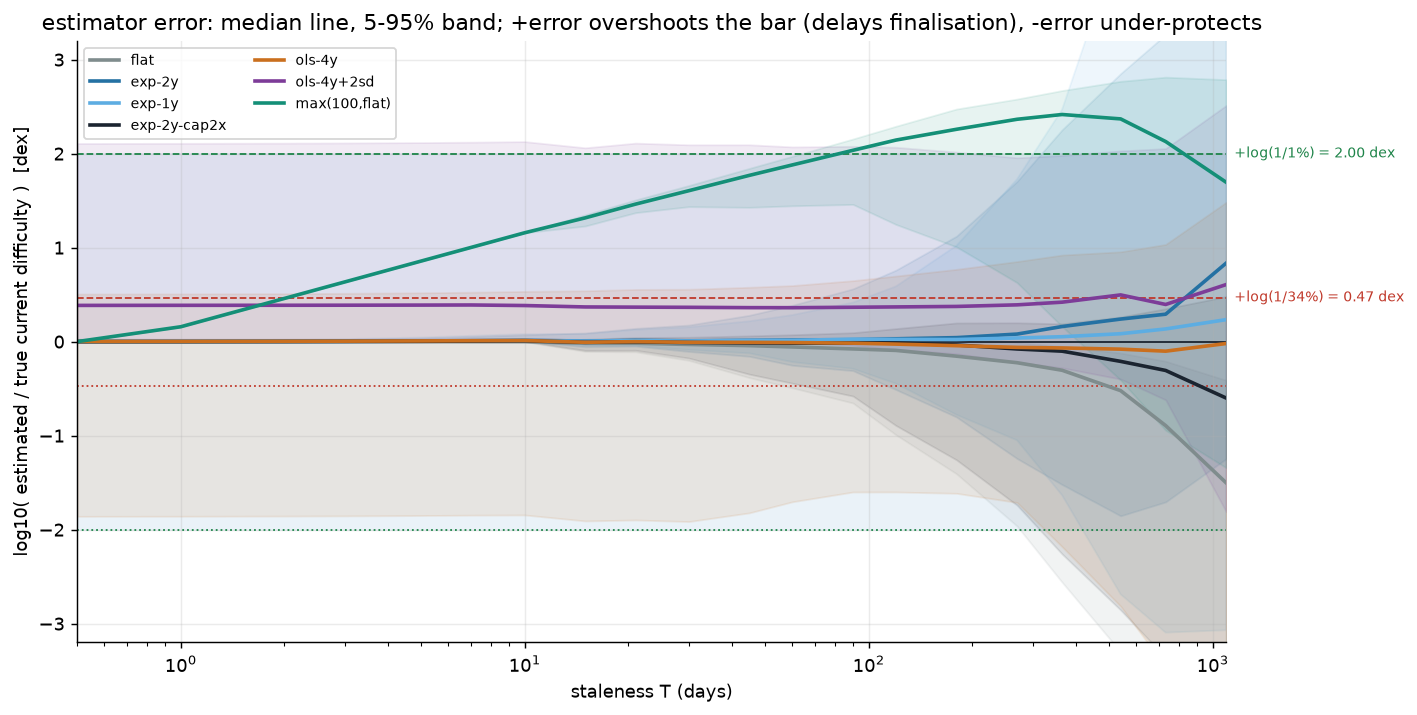
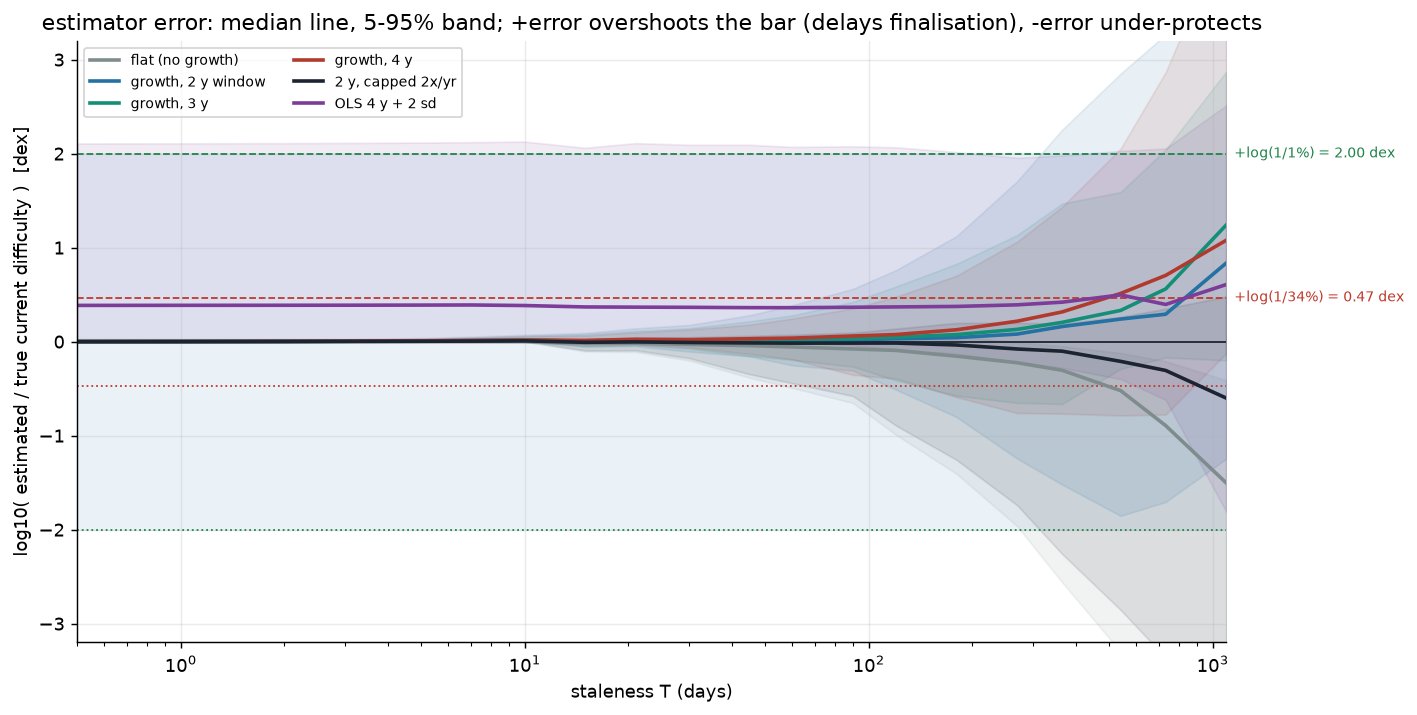
use 3 years estimate window

diff --git a/research/exp2_estimator.py b/research/exp2_estimator.py
@@ -65,13 +65,17 @@ def main():
         ax.text(days[-1], tol, f"  +log(1/{100*s:g}%) = {tol:.2f} dex", color=c,
                 fontsize=8, va="center")
     cols = {"flat": GREY, "flatbar": "#8e44ad", "exp-2y": BLUE, "exp-1y": "#5dade2",
-            "exp-2y-cap2x": INK, "ols-4y": ORANGE, "ols-4y+2sd": PURPLE,
-            "max(100,flat)": "#148f77"}
+            "exp-3y": "#148f77", "exp-4y": "#b03a2e", "exp-2y-cap2x": INK,
+            "ols-4y": ORANGE, "ols-4y+2sd": PURPLE, "max(100,flat)": "#7f8c8d"}
+    labels = {"flat": "flat (no growth)", "exp-2y": "growth, 2 y window",
+              "exp-3y": "growth, 3 y", "exp-4y": "growth, 4 y",
+              "exp-2y-cap2x": "2 y, capped 2x/yr", "ols-4y+2sd": "OLS 4 y + 2 sd"}
+    PLOT = ("flat", "exp-2y", "exp-3y", "exp-4y", "exp-2y-cap2x", "ols-4y+2sd")
     for est, d in data.items():
-        if est == "flatbar":       # a bar shape, not a difficulty estimate
+        if est not in PLOT:
             continue
         med = [quant(d[T], 0.5) for T in TS]
-        ax.plot(days, med, color=cols[est], lw=2, label=est)
+        ax.plot(days, med, color=cols[est], lw=2, label=labels.get(est, est))
         lo = [quant(d[T], 0.05) for T in TS]
         hi = [quant(d[T], 0.95) for T in TS]
         ax.fill_between(days, lo, hi, color=cols[est], alpha=0.10)

diff --git a/research/exp4_forks.py b/research/exp4_forks.py
@@ -70,11 +70,11 @@ def collect_forks():
 def fork_table():
     print("\nreal forks: candidate work / bar")
     print("%-5s %-9s %-8s %-12s %-12s %s" % ("fork", "checkpoint", "shared %",
-                                              "flatbar", "100-block", "exp-2y-cap2x"))
+                                              "flatbar", "100-block", "growth 3y"))
     for name, yr, t0, w, shared, own in collect_forks():
         fb = w / M.bar(t0, M.BTC.t1 - t0, "flatbar")
         b100 = w / M.bar(t0, M.BTC.t1 - t0, "flat")
-        cap = w / M.bar(t0, M.BTC.t1 - t0, "exp-2y-cap2x")
+        cap = w / M.bar(t0, M.BTC.t1 - t0, "exp-3y")
         print("%-5s %-9s %-8s %-12s %-12s %s"
               % (name, figs.ymd(t0), f"{100*shared/w:5.0f}%", f"{fb:.3g}", f"{b100:.3g}",
                  f"{cap:.3g}"))

diff --git a/research/model.py b/research/model.py
@@ -188,6 +188,8 @@ ESTIMATORS = {
     "flat": est_flat,
     "flatbar": est_flatbar,
     "exp-2y": lambda t0, T: est_exp(t0, T, 2.0),
+    "exp-3y": lambda t0, T: est_exp(t0, T, 3.0),
+    "exp-4y": lambda t0, T: est_exp(t0, T, 4.0),
     "exp-1y": lambda t0, T: est_exp(t0, T, 1.0),
     "exp-2y-cap2x": lambda t0, T: est_exp(t0, T, 2.0, cap_per_year=2.0),
     "ols-4y": lambda t0, T: est_ols(t0, T, 4.0),

diff --git a/final/README.md b/final/README.md
@@ -9,12 +9,14 @@ once its chainwork since the checkpoint clears
 
     C  =  candidate chainwork since the checkpoint
     w  =  D̂ · 2³²   one block at current difficulty; estimate D̂ from the spine
-                     using a trailing 2-year growth rate capped at 2×/year (bias high)
+                     via the trailing 3-year growth rate (no cap — over-estimating
+                     only delays finalization)
     w0 =  D0 · 2³²   one block at the checkpoint difficulty
     T  =  t_now − t0   staleness (the node's clock)
 
-Good for roughly **3 years**; a node older than that must adopt a newer checkpoint
-(upgrade) or fail closed rather than finalise.
+Good for roughly **3 years** against a ~1% attacker, or ~1.5 years against 34% attacker;
+beyond that a node must adopt a newer checkpoint (upgrade) or fail closed rather
+than finalize.
 
 ## The idea
 
@@ -29,7 +31,7 @@ Partition-safe IBD removes that trust **without needing the network**. The node
 ships with a **trusted header spine**: Bitcoin's real headers, up to a
 compile-time checkpoint `t0`. From that spine it knows the network's historical
 **work rate**, and can therefore estimate how much work the network is doing
-*now*. It then refuses to finalise the chain it is downloading until that chain
+*now*. It then refuses to finalize the chain it is downloading until that chain
 proves it carried comparable work — at least the work of 100 blocks at the
 **current** difficulty since `t0`.
 
@@ -56,35 +58,38 @@ Two properties do the work:
 
 The one real design question is how far this holds as the checkpoint ages. The
 bar is deliberately conservative — we over-estimate difficulty, which can only
-delay finalisation — but a fork's accumulated work grows with the elapsed time
+delay finalization — but a fork's accumulated work grows with the elapsed time
 `T` while difficulty, and so the bar, may not keep up, so the guarantee cannot
 last forever.
 
 A node whose spine is older than that limit must either **upgrade** — trusting a
 newer, subjective checkpoint shipped in the new binary — or **fail closed**,
-refusing to finalise rather than settle a chain it cannot vouch for. That is
-cheap in practice: most nodes on the network run a Bitcoin Core release less than
-three years old, so a horizon of roughly three years matches how the network is
-actually deployed.
+refusing to finalize rather than settle a chain it cannot vouch for. A horizon of
+a few years is only usable if nodes upgrade on roughly that cadence; that is a
+deployment assumption, not something this study measured.
 
 The rest of this note finds that limit and backtests it on Bitcoin's real
 history. (Experiments and lab notebook: [`../research`](../research).)
 
 ## What the study showed
 
-* The idea is sound and the threat model is right — partition resistance is a
-  *work* question, and the estimator is the hard part. But a **fixed** 100-block
-  bar is overtaken by a forked minority: it holds a 1% attacker for ~70 days and
-  a 34% attacker for ~2 days ([`horizon.png`](diagrams/horizon.png)).
-* The fix is to scale the bar with staleness: keep the 100-block term as a
-  **floor**, and add the work a checkpoint-difficulty chain would have done,
-  `max(100·w, w0·T/600)`. For `T > ~17 h` that is the age-proportional
-  "flat bar", which keeps forks out for **years instead of days**
+* A **fixed** 100-block bar is overtaken with age: a minority fork keeps mining,
+  so its work grows hour by hour while the bar stands still. It holds a 1%
+  attacker for only ~70 days and a 34% attacker for ~2 days
+  ([`horizon.png`](diagrams/horizon.png)).
+* So the bar must grow too. Keep 100 blocks as a **floor** and add the work a
+  chain at the checkpoint difficulty would have done over the checkpoint's age
+  `T = t_now − t0` — that is `T/600` blocks (`600` seconds per block, so ~17 h
+  buys 100). The bar is the larger of the two, `max(100·w, w0·T/600)`; past
+  ~17 h the age term wins and forks stay out for **years instead of days**
   ([`bars.png`](diagrams/bars.png), [`security.png`](diagrams/security.png)).
-* The node must estimate current difficulty to within a factor `1/s` (2.0 dex
-  for a 1% attacker, 0.47 dex for 34%). On real history a growth-capped
-  exponential meets the 1% tolerance for months; a raw log-log trend barely at
-  all ([`estimator.png`](diagrams/estimator.png)).
+* The fragile part is guessing *today's* difficulty. Over-estimating is safe — it
+  only delays finalization. Under-estimating is what hurts: the bar sinks toward
+  the fork's work, which is a share `s` of the honest chain's, so the estimate
+  may come in at most `1/s` low — ~100× for a 1% attacker, but only ~3× for 34%.
+  On real history a trailing 3-year growth rate stays inside that for a few
+  months (5–95% error ≈1.7× at 30 days, ≈5× at 90); a plain log-log trend is off
+  by ~200× even at one day ([`estimator.png`](diagrams/estimator.png)).
 
 ---
 
@@ -111,7 +116,7 @@ G(T)   = mean difficulty over [t0,t0+T] / D0      (how much difficulty grew)
 rho    = D̂ / D0                                   (the node's estimate vs its start)
 ```
 
-* the **honest** chain finalises iff `Phi ≤ 1`;
+* the **honest** chain finalizes iff `Phi ≤ 1`;
 * a fork of hash share `s` is kept out iff `Phi > s`.
 
 So the rule is correct exactly on the band
@@ -143,13 +148,17 @@ so a **constant** bar `100·w` is crossed by the fork once
 s · W_honest(T) ≥ 100 · w     ⟺     T ≥ T_hi(s) ≈ 600 · THETA · rho / (G · s).
 ```
 
-The protection horizon is finite and shrinks with the attacker's share:
+The protection horizon is finite and shrinks with the attacker's share (median
+over checkpoints since 2011):
 
-| checkpoint, median over 2011+ | s=0.1% | s=1% | s=10% | s=34% |
+| rule | s=0.1% | s=1% | s=10% | s=34% |
 |---|---|---|---|---|
-| fixed 100-block (capped growth) | 1.7 y | 0.2 y | 6 d | 2 d |
-| **age-proportional (flat bar)** | **5.2 y** | **3.4 y** | **2.4 y** | **1.5 y** |
+| fixed 100-block | 1.7 y | 0.2 y | 6 d | 2 d |
+| **age bar (flat bar)** | **5.2 y** | **3.4 y** | **2.4 y** | **1.5 y** |
 | conservative OLS + 2 sd | 2.5 y | 0.3 y | 15 d | 4 d |
+
+The spread across checkpoints is wide: for the age bar the unluckiest tenth hold
+only 2.0 y at `s=1%` and 0.3 y at 34%, so read these as medians, not guarantees.
 
 ![protection horizon](diagrams/horizon.png)
 
@@ -185,12 +194,12 @@ The cost is availability — the flat bar denies the true chain in drawdowns
 
 | fraction of checkpoints that DENY the true chain | 1–7 d | 30 d | 90 d | 1 y | 2 y |
 |---|---|---|---|---|---|
-| fixed 100-block (capped growth) | 0% | 0% | 0% | 0% | 0% |
+| fixed 100-block | 0% | 0% | 0% | 0% | 0% |
 | age bar (flat) | 29% | 27% | 16% | 7% | 0% |
 
 So it is a clean trade: **the fixed bar buys availability at all staleness by
 giving up security after days-to-weeks; the age bar gives up a little
-availability early and stays secure for years.** Because delayed finalisation is
+availability early and stays secure for years.** Because delayed finalization is
 acceptable (§1), the age bar is the better operating point, and the 100-block
 rule is best used as its floor:
 
@@ -198,52 +207,58 @@ rule is best used as its floor:
 bar(T) = max( 100 · w ,  w0 · T/600 )
 ```
 
-## 4. The estimator must be right to a factor `1/s`
+## 4. The estimator may under-shoot by at most `1/s`
 
-Whatever the bar's shape, `rho` enters `Phi` directly. To place the bar between
-the fork (`s·W_h`) and the honest chain (`W_h`) the estimate must be correct to
-within `log10(1/s)` — 2.0 dex for a 1% attacker, only 0.47 dex for 34%.
+Whatever the bar's shape, `rho` enters `Phi` directly. The bar must sit between
+the fork's work (`s·W_h`) and the honest chain's (`W_h`), a window of width `1/s`,
+and `rho` scales the bar. Over-shooting `rho` only delays finalization; the danger
+is under-shooting — the bar sinks toward the fork. So the estimate may come in at
+most `1/s` **low**: 100× for a 1% attacker, only ~3× for 34%.
 
 ![estimator](diagrams/estimator.png)
 
 | 5–95% spread of `log10(D̂/D_true)` | 30 d | 90 d | 1 y | 2 y |
 |---|---|---|---|---|
 | flat (no growth) | 0.2 | 0.7 | 2.5 | 3.8 |
-| capped exponential (2 y, ≤2×/yr) | 0.2 | 0.7 | 2.5 | 3.7 |
+| growth, 2 y window | 0.3 | 0.9 | 3.8 | 5.0 |
+| growth, 3 y window | 0.2 | 0.7 | 2.1 | 2.2 |
+| growth, 4 y window | 0.2 | 0.7 | 2.2 | 3.6 |
+| growth, 2 y capped 2×/yr | 0.2 | 0.7 | 2.5 | 3.7 |
 | OLS log-log, 4 y | 2.5 | 2.3 | 3.1 | 4.5 |
 | OLS log-log, 4 y + 2 sd | 2.1 | 2.1 | 2.3 | 2.7 |
 
 Reading: the **flat** estimate under-shoots whenever difficulty grows (the only
-unsafe direction), the **capped exponential** keeps the error to ~0.7 dex for
-three months (inside the 1% tolerance), and the **OLS trend** is poor even at one
-day because the trend value at `t0` can sit far from actual difficulty. Adding a
-conservative slack (`+2 sd`) guarantees overshoot — safe, but it delays the
-honest chain and hits the 34% tolerance (0.47 dex) almost immediately.
+unsafe direction); the **growth** windows keep the error to ~2 decades out to two
+years, with **3 years the sweet spot**; the **OLS trend** is poor even at one day
+because the fit's value at `t0` can sit far from actual difficulty. Note that
+**capping growth is counter-productive**: it forces under-shoot at long staleness
+(the unsafe direction) to buy availability the design does not need, since
+over-shoot only delays finalization. A plain window, uncapped, is better.
 
 ## 5. Real forks, and the late-split bound
 
 BCH/BSV/XEC carry Bitcoin's genuine prefix work, then their own. (candidate work / bar; `<1` = caught)
 
-| fork, checkpoint | shared prefix | age bar | fixed 100 | capped exp |
-|---|---|---|---|---|
-| BCH, 2017-03 | 6% | **0.86** | 4.3e3 | 5.9 |
-| BCH, 2017-08 (at split) | 0% | **0.44** | 2.1e3 | 3.8 |
-| BCH, 2018-01 | 0% | **0.22** | 996 | 2.4 |
-| XEC, 2020-01 | 98% | **0.16** | 554 | 5.3 |
+| fork, checkpoint | shared prefix | age bar | fixed 100 |
+|---|---|---|---|
+| BCH, 2017-03 | 6% | **0.86** | 4.3e3 |
+| BCH, 2017-08 (at split) | 0% | **0.44** | 2.1e3 |
+| BCH, 2018-01 | 0% | **0.22** | 996 |
+| XEC, 2020-01 | 98% | **0.16** | 554 |
 
 The age bar catches every real fork from a checkpoint near or after the split;
-the fixed 100-block bar never does, and the capped-exponential estimator is too
-noisy. But **if the checkpoint predates the split**, the shared prefix alone
-clears either bar (BCH at a 2014-12 checkpoint = 8.95× the age bar) — the
-late-split bound of the prior analysis. A sound checkpoint must post-date any
-live fork.
+the fixed 100-block bar never does. But **if the checkpoint predates the split**,
+the shared prefix alone clears either bar (BCH at a 2014-12 checkpoint = 8.95×
+the age bar) — the late-split bound of the prior analysis. A sound checkpoint
+must post-date any live fork.
 
 ## 6. Recommended rule
 
 1. Ship a spine to `t0`; anchor `D0`.
-2. Estimate current difficulty with a **growth-capped** method
-   (`D̂ = D0 · min(g,2)/yr ^ (T/1yr)`, `g` from the trailing 2 years) — bias up.
-3. Finalise iff
+2. Estimate current difficulty from the **trailing 3-year growth rate** `g`,
+   uncapped: `D̂ = D0 · g^(T/1 year)`. Over-estimating is safe, so do **not** cap
+   growth — a cap forces under-estimation at long staleness.
+3. Finalize iff
 
    ```
    W_candidate(t0 → tip)  ≥  max( 100 · w ,  w0 · T/600 )

diff --git a/research/README.md b/research/README.md
@@ -42,9 +42,13 @@ is kept out iff `Phi > s`.
 
 * Window ends (`exp-2y-cap2x`): `T_lo ≈ 13–17 h`, `T_hi(1%) ≈ 44–75 d`,
   `T_hi(34%) ≈ 39–51 h`; `T_hi/T_lo ≈ 80–113 ≈ 1/s`.
-* Estimator spreads (5–95%) at 90 d / 2 y: flat 0.70/3.76, cap2x 0.67/3.71,
-  ols-4y 2.25/4.49, ols-4y+2sd 2.12/2.67. Tolerance is 2.00 dex (1%) /
-  0.47 dex (34%).
+* Estimator spreads (5–95%) at 90 d / 2 y: flat 0.70/3.76, exp-2y 0.87/4.97,
+  exp-3y 0.69/2.21, exp-4y 0.71/3.64, cap2x 0.67/3.71, ols-4y 2.25/4.49,
+  ols-4y+2sd 2.12/2.67. Tolerance is 2.00 dex (1%) / 0.47 dex (34%).
+* Estimator window/cap sweep (`exp`, uncapped unless noted): spread at 2 y is
+  5.0 dex (2 y window), 2.2 (3 y), 3.6 (4 y) — **3 y is the sweet spot**. A
+  2×/yr growth cap *hurts*: it forces under-shoot (median −0.31 dex at 2 y vs
+  +0.56 uncapped-3 y), and under-shoot is the unsafe direction. Drop the cap.
 * Availability: fixed/capped never denies; the flat bar denies 29% at 1–7 d
   (drawdowns + block-count variance), 7% at 1 y, 0% at 2 y.
 * Security at 1 y: fixed `cap2x` passes a 1% fork on ~100% of checkpoints; the
